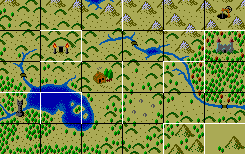
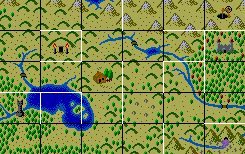
Update the map.
Add a location for the new dungeon, and an extra flashing stone.

Changed region(s): [[0.6571, 0.7532, 1.0, 1.0], [0.5429, 0.6234, 0.6286, 0.7273], [0.5714, 0.7273, 0.6, 0.7532]]

diff --git a/core/src/com/dishmoth/miniquests/game/MapStones.java b/core/src/com/dishmoth/miniquests/game/MapStones.java
@@ -12,10 +12,11 @@ import java.util.LinkedList;
 public class MapStones extends Sprite {
 
   // where the stones are within the image
-  private final static int kStonePos[][] = { { 17,  7 },
-                                             { 10, 18 },
-                                             { 29, 12 },
-                                             { 21, 21 } };
+  private final static int kStonePos[][] = { { 13, 10 },
+                                             { 10, 19 },
+                                             { 22,  7 },
+                                             { 29, 13 },
+                                             { 22, 21 } };
   
   // depth for the images
   private static final float kDepth = -1;
@@ -23,7 +24,10 @@ public class MapStones extends Sprite {
   // times for stone flashing on and off
   private static final int kFlashTime = 3,
                            kStartTime = 20;
-  private static final int kTimes[]   = { 60, 30, 15, 10 };
+  private static final int kTimes[]   = { 60, 30, 15, 10, 2 };
+  
+  // which quest each stone corresponds to
+  private static final int kRemap[] = { 0, 4, 2, 1, 3 };
   
   // details of the image
   private static final int    kImageWidth   = 4,
@@ -37,9 +41,10 @@ public class MapStones extends Sprite {
   
   // different colours for different stones
   private static final char kImageColours[][] = { {'4','a'},
-                                                  {'5','j'},
+                                                  {'H','h'},
                                                   {'K','c'},
-                                                  {'Y','o'} };
+                                                  {'Y','o'},
+                                                  {'5','j'} };
   
   // flash images for each stone
   private static final EgaImage kImages[];
@@ -93,7 +98,7 @@ public class MapStones extends Sprite {
     if ( --mTimer < 0 ) {
       do {
         mStone = (mStone+1) % mQuests.length;
-      } while ( mQuests[mStone] == false);
+      } while ( mQuests[kRemap[mStone]] == false);
       mTimer = kTimes[mNumQuests-1];
     }
     
@@ -108,8 +113,8 @@ public class MapStones extends Sprite {
     boolean flash = ( mTimer < kFlashTime );
     if ( !flash ) return;
     
-    int xy[] = kStonePos[ mStone ];
-    EgaImage image = kImages[ mStone ];
+    int xy[] = kStonePos[kRemap[ mStone ]];
+    EgaImage image = kImages[kRemap[ mStone ]];
     image.draw(canvas, xy[0], xy[1], kDepth);
     
   } // Sprite.draw()

diff --git a/core/src/com/dishmoth/miniquests/game/MapDataMain.java b/core/src/com/dishmoth/miniquests/game/MapDataMain.java
@@ -23,7 +23,8 @@ public class MapDataMain extends MapData {
   private static final int kQuestPos[] = { 1*kNumX + 1, 
                                            3*kNumX + 0,
                                            0*kNumX + 5,
-                                           1*kNumX + 5 };
+                                           1*kNumX + 5,
+                                           4*kNumX + 5 };
   private static final int kStonesPos  =   3*kNumX + 3;
   
   // constructor
